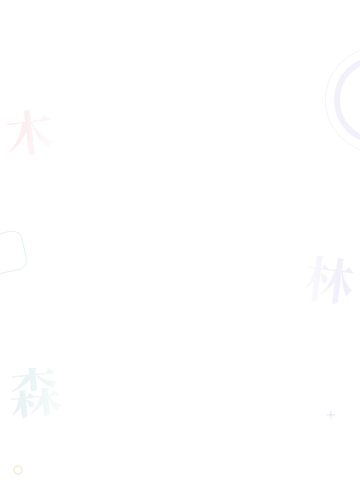
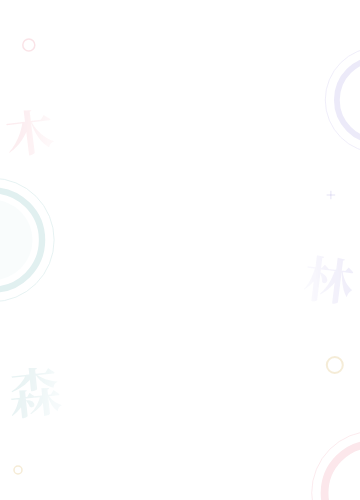
Balance the pastel background with layered circles and arcs

diff --git a/src/theme.css b/src/theme.css
@@ -8,7 +8,7 @@
   --green:var(--accent);--muted:#687187;--line:#e8eaf1;
   --coral:var(--accent);--paper:#fff;
 }
-body{background:#fffefa url('/ui-background.svg?v=pastel-edges') repeat;background-size:640px 720px}
+body{background:#fffefa url('/ui-background.svg?v=pastel-circles') repeat;background-size:640px 720px}
 #app{position:relative;z-index:1}
 button{font-weight:750}
 button:focus-visible,a:focus-visible,input:focus-visible{outline-color:#5369ef}
@@ -64,7 +64,7 @@ button:active:not(:disabled){transform:translateY(1px)}
 .stat:last-child strong{color:#00a56c}
 .minor-stats{gap:26px}
 .mobile-pause{background:#f6f6f7;border:1px solid #e5e7ec;color:#526078;display:grid;place-items:center}
-.board{background:#fff url('/board-background.svg?v=pastel-edges') center / 100% 100% no-repeat;border-radius:0 0 14px 14px;margin:0 -10px;border-bottom:1px solid #ecedf5}
+.board{background:#fff url('/board-background.svg?v=pastel-circles') center / 100% 100% no-repeat;border-radius:0 0 14px 14px;margin:0 -10px;border-bottom:1px solid #ecedf5}
 .board-status{color:#65718b;font-weight:700;font-size:14px;top:18px;right:18px}
 .gesture-cue{position:absolute;top:12px;bottom:auto;left:50%;transform:translateX(-50%);display:flex;align-items:center;gap:9px;color:#5c6f9f;pointer-events:none;white-space:nowrap}.gesture-cue span{font-size:13px;font-weight:750}
 .gesture-cue svg{width:132px;height:34px;display:block}.swipe-hand{animation:swipe-demo 2.4s ease-in-out infinite}

diff --git a/docs/progress.md b/docs/progress.md
@@ -4,6 +4,7 @@
 
 - 利用者の希望に合わせ，背景は以前の淡い赤・紫・青緑と，左右に漢字・輪・四角を散らした配置を生かす．盤面は左上に「木」，右側に「林」，左下に「森」を置き，前の大きさから約15%小さくした．漢字の塗りを盤面中央側へ淡くすることで，図形と白い背景に馴染ませる．中央の余白と，森・輪が重ならない配置を維持する．
 - 漢字と図形を端末サイズに合わせた独立したSVG領域に収め，縦横比を保って縮小する．生成は `tools/build-backgrounds.mjs`，目視用の背景画像は `docs/*background*preview.png` に保存する．
+- 幾何的な図形を増やし，右上の紫・左中央の青緑・右下の赤の大きな円弧で配置に流れを作った．太い線と細い線の二重の輪，小さい円を組み合わせる．漢字の位置と中央の白地を保ち，円弧は文字のない端に置く．
 
 ## 2026-10-21 現在
 

diff --git a/docs/release-record.md b/docs/release-record.md
@@ -66,6 +66,8 @@ npx wrangler deploy --dry-run --outdir dist-worker --env dev # 開発環境
 
 利用者の希望に合わせ，以前の淡い赤・紫・青緑と，左右に漢字と図形を散らした配置を採用した．漢字を少し小さくし，塗りを中央側へ淡くして白地に馴染ませる．SVGに漢字の形を埋め込み，端末に合わせて字形が伸びないよう個別の領域で縮小する．古い背景キャッシュを使わないようCSSの画像URLに版を付けた．
 
+幾何的な図形を増やす希望を受け，右上・左中央・右下に大きな円弧を配置した．太い線と細い線の輪や小さい円を組み合わせ，漢字と重ならない間隔にする．
+
 背景単体を640×720，560×700，360×500で生成して確認し，公開URL付きの `npm run build` が成功した．今回の目視確認は背景アセットの確認であり，実機ブラウザー画面の操作確認ではない．
 
 ## 残件と，必要な操作
